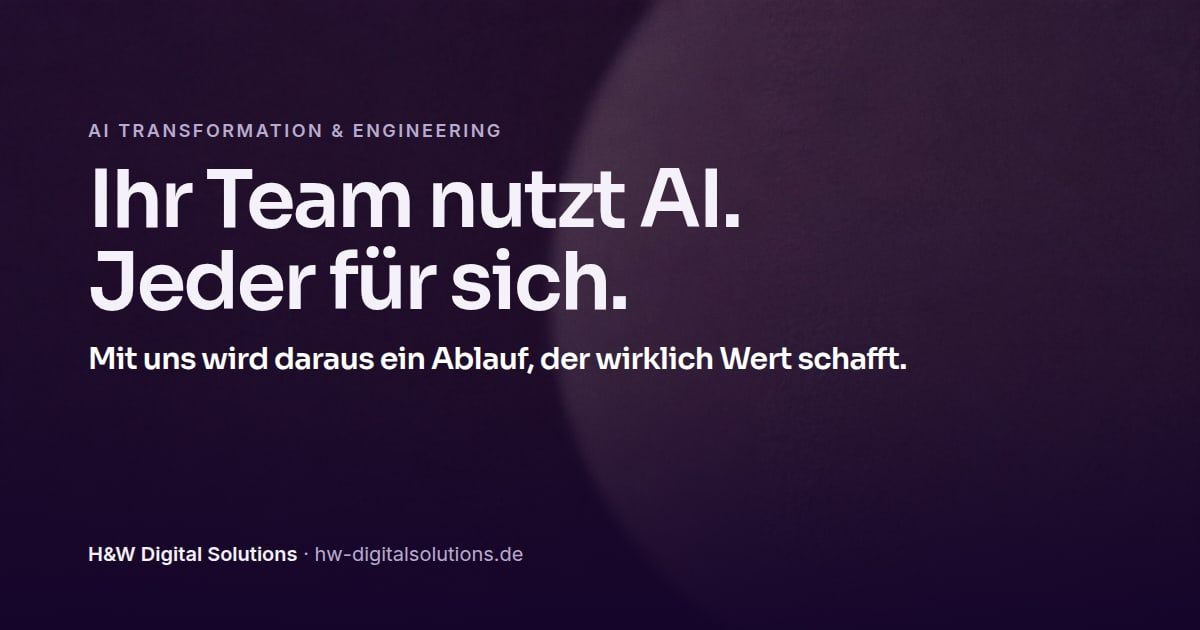
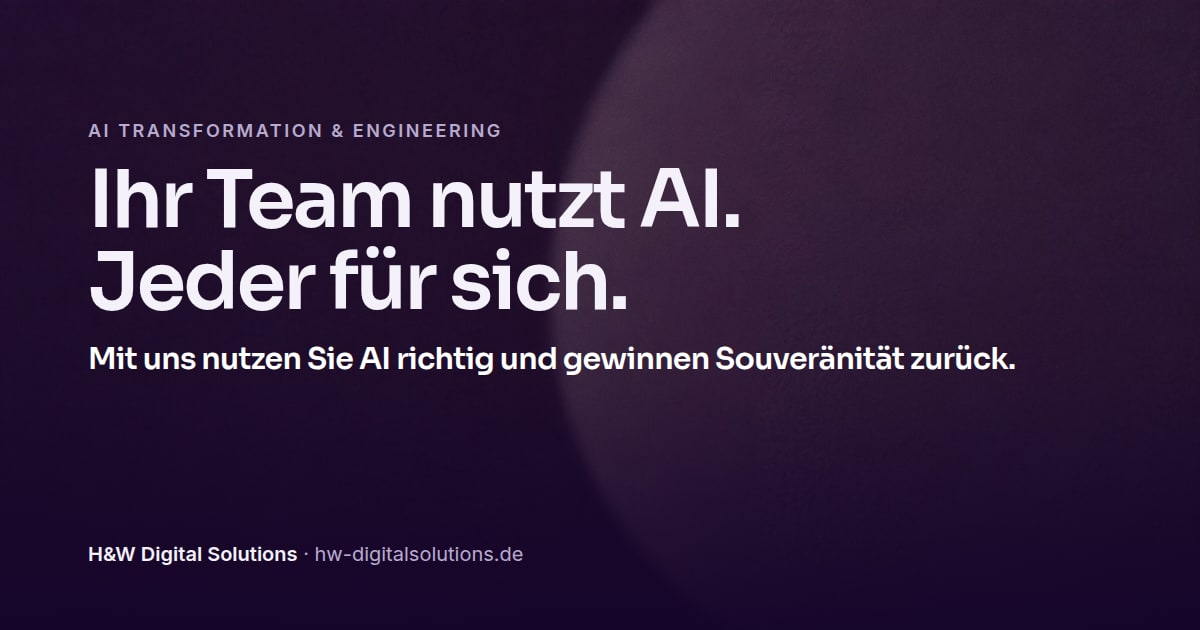
Hero claim: using AI properly and regaining sovereignty
Founders asked for the claim to carry the benefit instead of the
process. Two changes to their draft: KI becomes AI per the site rule,
and the infinitive becomes the Sie form the rest of the site speaks in.
"Ihre" is dropped so the claim fits two lines on phones instead of
three with a one word orphan. The description loses its now duplicated
sovereignty phrase and keeps the founders' point as a consequence:
afterwards the team carries on without us. Social image re-rendered.

Claude-Session: https://claude.ai/code/session_01WNik2r3KY3SBBWXV1w1yzj

Changed region(s): [[0.1542, 0.5429, 0.8633, 0.6032]]

diff --git a/hw-site/src/data/content.ts b/hw-site/src/data/content.ts
@@ -38,12 +38,20 @@ export const hero = {
   // Claim v6 (2026-09-18, Gründer-Wortlaut, ohne Gedankenstrich gesetzt).
   // Claim v7: Gründer-Richtung („Mit uns erreichen Sie endlich einen Ablauf, der wirklich
   // Wert schafft“) verdichtet, „daraus“ bindet an die Headline.
-  claim: "Mit uns wird daraus ein Ablauf, der wirklich Wert schafft.",
+  // Claim v4 (2026-09-18, Gründer: „AI richtig nutzen und Souveränität
+  // zurückgewinnen“): der Nutzen steht jetzt im Claim, nicht mehr der Ablauf.
+  // Aus dem Infinitiv der Gründer wird die Sie-Form der Seite. Ohne „Ihre“,
+  // weil der Claim damit auf Phones in zwei Zeilen passt statt in drei mit
+  // „zurück.“ als Einzelwort (gemessen bei 390 px).
+  claim: "Mit uns nutzen Sie AI richtig und gewinnen Souveränität zurück.",
   // v5 (2026-09-18): ein Satz, der Win zum Hook („der eine Ablauf“ statt Meeting-Gerede).
   // v6: konkret, wo und wie; kein „dort, wo“.
   // v7 (2026-09-18, Gründer-Wortlaut, in die Sie-Form der Site gesetzt).
   // v8: gekürzt (Gründer: „etwas kürzen“).
-  description: "Mit den richtigen Quellen, Regeln und Anbindungen. Wir begleiten Sie, bis es läuft, und Sie holen sich Ihre Souveränität zurück, ohne bei jedem Schritt auf Dienstleister angewiesen zu sein.",
+  // Souveränität steht jetzt im Claim, hier stünde sie doppelt. Der Gedanke
+  // der Gründer („ohne jedes Mal auf Dienstleister angewiesen zu sein“) bleibt,
+  // nur als Folge formuliert: wir machen uns entbehrlich.
+  description: "Mit den richtigen Quellen, Regeln und Anbindungen. Wir begleiten Sie, bis es läuft, und danach kommt Ihr Team ohne uns weiter.",
   primaryCta: { label: "Kostenloses Erstgespräch", href: "/kontakt" },
   secondaryCta: { label: "So arbeiten wir", href: "/vorgehen" },
 } as const;

diff --git a/hw-site/.agents/product-marketing.md b/hw-site/.agents/product-marketing.md
@@ -440,6 +440,7 @@ Konkrete Szenarien dürfen genutzt werden, wenn sie als Beispiel gekennzeichnet 
 - v51 (2026-09-18) — Proof-Szene, Headline muss die Antwort auf das durchgestrichene „Im Pitch: Senior. In der Lieferung: Junior.“ sein (Gründer: „Geplant und gebaut für genau einen Betrieb“ passt nicht dazu). Neu: „Sie erklären Ihren Betrieb genau einmal.“ Die Antwort auf die Übergabe an ein Junior-Team ist, dass es keine Übergabe gibt; der Hook sagt es aus Sicht des Kunden. Direkte Alternative, falls die Wendung zu indirekt ist: „Bei uns planen und bauen die Gründer selbst.“
 - v52 (2026-09-18) — Proof-Szene, Kern korrigiert (Gründer: „Es geht gar nicht um die Übergabe. Es geht um Body Leasing und das, was z. B. KPMG macht: teure Preise abrufen, mit Credibilität auf den Namen winken, dann den frisch rekrutierten Studenten als teuren Berater verkaufen.“). Headline „Der Senior im Angebot ist der Senior im Projekt.“, Text „Sie bezahlen Erfahrung und bekommen genau die: zwei Gründer, die selbst planen und bauen. Die Nachweise darunter gehören ihnen.“ Die Zertifikatsleiste direkt darunter ist der Beleg. Kein Wettbewerber wird auf der Seite genannt. Verworfen: „Sie erklären Ihren Betrieb genau einmal.“ (Kontinuität statt Body Leasing), „Geplant und gebaut für genau einen Betrieb: Ihren.“ (Passung statt Seniorität).
 - v53 (2026-09-18) — Sektions-CTA im Versprechen geschärft (Gründer: „muss noch nachgeschärft werden“). Statt „Sprechen Sie mit denen, die auch bauen.“ jetzt „Welcher Einwand wiegt bei Ihnen am schwersten?“ Die alte Zeile wiederholte nur das Argument der Proof-Szene und war eine allgemeine Aufforderung. Die neue klammert den Abschnitt (Lede „Vier Einwände, vier Antworten.“), holt den Leser dort ab, wo er nach vier durchgestrichenen Zitaten steht, und führt in das Erstgespräch. Sie folgt außerdem dem Rhythmus der anderen Sektions-CTAs, die ebenfalls Fragen sind. Verworfen: „Und wenn Ihr Einwand nicht dabei war?“ (lädt zu Widerspruch statt zum Gespräch), „Welcher dieser vier Einwände ist bei Ihnen der größte?“ (zu umständlich).
+- v54 (2026-09-18) — Hero-Claim v4 (Gründer: „AI richtig nutzen und Souveränität zurückgewinnen“). Neu: „Mit uns nutzen Sie AI richtig und gewinnen Souveränität zurück.“ Statt des Ablaufs steht jetzt der Nutzen im Claim. Zwei Eingriffe in die Vorlage der Gründer: „KI“ wird „AI“ (Regel der Seite), und aus dem Infinitiv wird die Sie-Form, weil die Seite spricht, statt zu betiteln. „Ihre“ entfällt, damit der Claim auf Phones in zwei Zeilen passt statt in drei mit „zurück.“ als Einzelwort. Weil Souveränität nun im Claim steht, verliert die Beschreibung ihre Wiederholung: „… und danach kommt Ihr Team ohne uns weiter.“ Das ist derselbe Gedanke der Gründer (keine Abhängigkeit von Dienstleistern), nur als Folge formuliert.
 - v46 (2026-09-18) — Hero-Hintergrund, Fokus-Experiment (Gründer: „die Richtung ist schon excellent“): Lichtpool links hinter der Headline, rechts ruhig und dunkel; Schleier gelockert, damit der Pool trägt. Vier Kandidaten verglichen, Pool-Variante gewählt.
 - v45 (2026-09-18) — Hero-Claim optimiert (Gründer: „bitte hier noch optimieren“): „Mit uns wird daraus ein Ablauf, der wirklich Wert schafft.“ Alternativen: „Wir machen daraus einen Ablauf, der wirklich Wert schafft.“, „Mit uns wird daraus endlich ein Ablauf, der Wert schafft.“
 - v44 (2026-09-18) — Hero-Claim im Gründer-Wortlaut: „Mit uns erreichen Sie endlich einen Ablauf, der wirklich Wert schafft.“ (Original mit Gedankenstrich, auf der Site als Komma); Beschreibung gekürzt: „Mit den richtigen Quellen, Regeln und Anbindungen. Wir begleiten Sie, bis es läuft, und Sie holen sich Ihre Souveränität zurück, ohne bei jedem Schritt auf Dienstleister angewiesen zu sein.“
